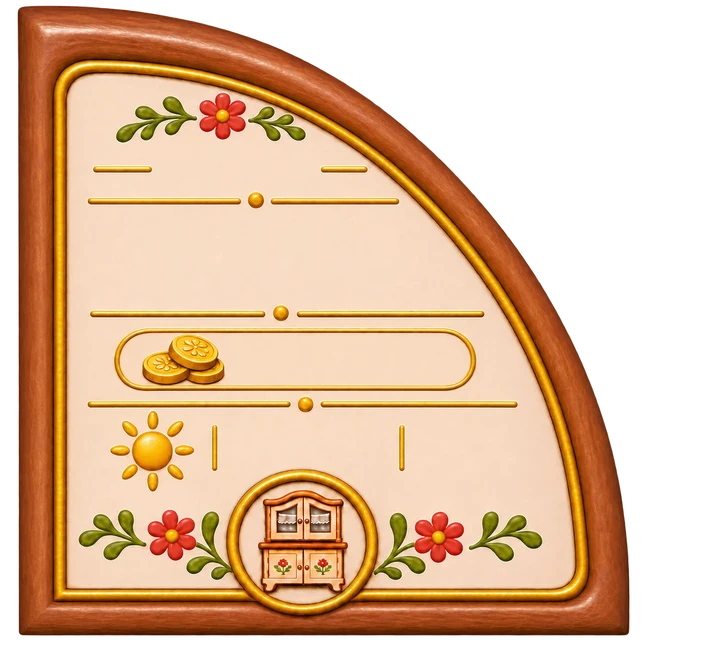
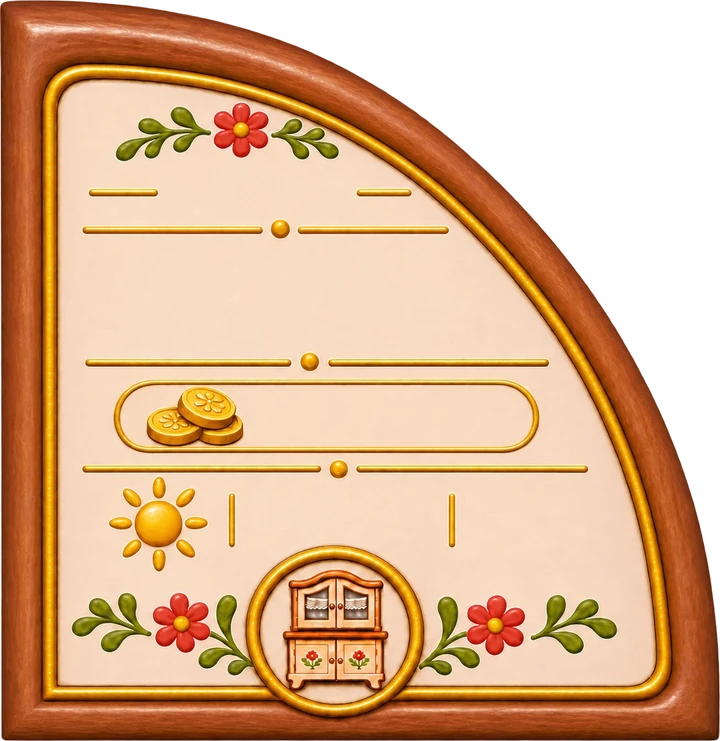
Meni dole levo: ploča tačno uz ivice, tekst poravnat između linija
Claude-Session: https://claude.ai/code/session_01GMM3Rnq6i1o8tZEuJzXhvg

diff --git a/js/game-menu.js b/js/game-menu.js
@@ -8,10 +8,12 @@ var BASE='assets/ui/dock/';
 var MONTHS=['JAN','FEB','MAR','APR','MAJ','JUN','JUL','AVG','SEP','OKT','NOV','DEC'];
 var TEMP_BASE=[0,2,7,12,17,21,24,23,18,12,6,1];
 // the places of the texts on the plate (fractions of the picture of the plate, 1309 x 1201)
-var T={date:[.328,.254,.062],time:[.375,.385,.17],money:[.50,.543,.07],wname:[.55,.655,.05],wtemp:[.55,.715,.062],sun:[.21,.675,.17]};
-var W_H=1201/1309;      // height of the plate in widths
-var CORNER=[35/1309,1150/1201];      // the middle of the arc (the bottom left corner of the plate), fractions of the plate
-var RADIUS=.99,BTN=.235;      // in widths of the plate
+var OLD=[1309,1201],BB=[32,10,1113,1145];      // the picture of the plate was cut to its visible part (BB inside of OLD): the plate lies exactly on the left and the bottom edge
+function cv(a){return [(a[0]*OLD[0]-BB[0])/BB[2],(a[1]*OLD[1]-BB[1])/BB[3],a[2]*OLD[0]/BB[2]];}
+var T={date:cv([.328,.254,.062]),time:cv([.375,.385,.17]),money:cv([.50,.543,.07]),wname:cv([.428,.645,.042]),wtemp:cv([.428,.693,.055]),sun:cv([.21,.675,.17])};
+var W_H=BB[3]/BB[2];      // height of the plate in widths
+var CORNER=[(35-BB[0])/BB[2],(1150-BB[1])/BB[3]];      // the middle of the arc (the bottom left corner of the plate), fractions of the plate
+var RADIUS=.99*OLD[0]/BB[2],BTN=.235*OLD[0]/BB[2];      // in widths of the plate
 var BUTTONS=[
   {id:'posudje',label:'Kuhinjski elementi',act:function(){press('kitchenElementsBtn');}},
   {id:'frizider',label:'Frižider',act:function(){toast('Frižider: uskoro.');}},
@@ -29,7 +31,7 @@ css.textContent=[
 'body.cdock-on img.ui-overlay-element[src*="drvena_traka_krug"],body.cdock-on img.ui-overlay-element[src*="dva_polja"]{display:none!important}',
 'body.cdock-on #savkaBookRoot:not(.savka-open) .savka-book-tab{opacity:0;pointer-events:none}',
 'body.pantry-open #cdock,body.garden-open #cdock,body.market-open #cdock{display:none}',
-'#cdock{position:fixed;left:0;bottom:0;--w:clamp(210px,17.5vw,330px);width:calc(var(--w)*1.4);height:calc(var(--w)*1.2);z-index:1900;pointer-events:none;user-select:none;-webkit-user-select:none}',
+'#cdock{position:fixed;left:0;bottom:0;--w:clamp(178px,14.9vw,281px);width:calc(var(--w)*1.7);height:calc(var(--w)*1.7);z-index:1900;pointer-events:none;user-select:none;-webkit-user-select:none}',
 '#cdock .cd-panel{position:absolute;left:0;bottom:0;width:var(--w);height:calc(var(--w)*'+W_H.toFixed(4)+');pointer-events:auto;cursor:pointer}',
 '#cdock .cd-panel img{position:absolute;inset:0;width:100%;height:100%;display:block;pointer-events:none;filter:drop-shadow(0 3px 6px rgba(40,20,6,.45))}',
 '#cdock .cd-t{position:absolute;transform:translate(-50%,-50%);white-space:nowrap;font-family:"Paytone One",system-ui,sans-serif;color:#5a2d10;text-shadow:0 1px 0 rgba(255,244,214,.7);line-height:1;pointer-events:none}',
@@ -52,7 +54,7 @@ var panel=document.createElement('div');panel.className='cd-panel';
 var pimg=document.createElement('img');pimg.src=BASE+'panel.webp';pimg.alt='';pimg.draggable=false;panel.appendChild(pimg);
 function txt(cls,pos){var s=document.createElement('span');s.className='cd-t '+cls;s.style.left=(pos[0]*100)+'%';s.style.top=(pos[1]*100)+'%';s.style.fontSize='calc(var(--w)*'+pos[2]+')';panel.appendChild(s);return s;}
 var tDate=txt('d',T.date),tTime=txt('t',T.time),tMoney=txt('m',T.money),tWn=txt('wn',T.wname),tWt=txt('wt',T.wtemp);
-var wIc=document.createElement('span');wIc.className='cd-wi';wIc.style.left=(T.sun[0]*100)+'%';wIc.style.top=(T.sun[1]*100)+'%';wIc.style.width='calc(var(--w)*.15)';wIc.style.height='calc(var(--w)*.15)';wIc.style.fontSize='calc(var(--w)*.11)';panel.appendChild(wIc);
+var wIc=document.createElement('span');wIc.className='cd-wi';wIc.style.left=(T.sun[0]*100)+'%';wIc.style.top=(T.sun[1]*100)+'%';wIc.style.width='calc(var(--w)*.176)';wIc.style.height='calc(var(--w)*.176)';wIc.style.fontSize='calc(var(--w)*.13)';panel.appendChild(wIc);
 dock.appendChild(panel);
 
 var tip=document.createElement('div');tip.className='cd-tip';dock.appendChild(tip);

diff --git a/index.html b/index.html
@@ -228,7 +228,7 @@
 <script src="js/luster.js?v=9"></script>
 <script src="js/fire-dust.js?v=2"></script>
 <script src="js/weather.js?v=22"></script>
-<script src="js/game-menu.js?v=3"></script>
+<script src="js/game-menu.js?v=6"></script>
 <script src="js/swallow.js?v=2"></script>
 <script src="js/stove-plates.js?v=4"></script>
 <script src="js/pitcher-pour.js?v=4"></script>
